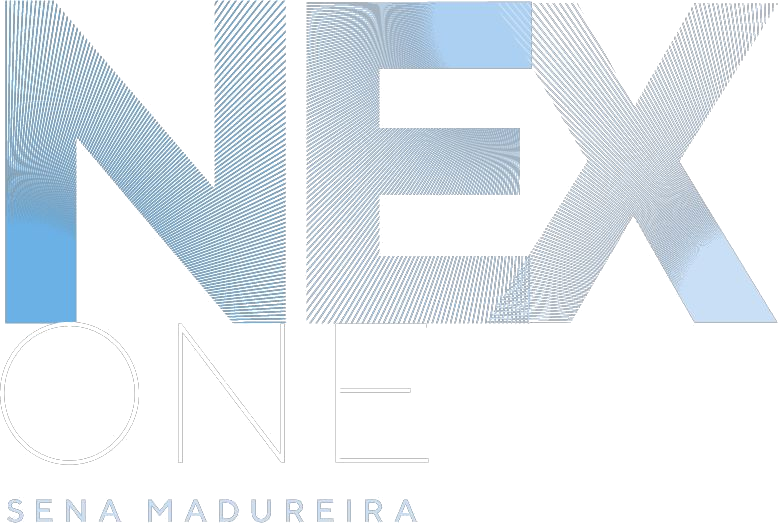
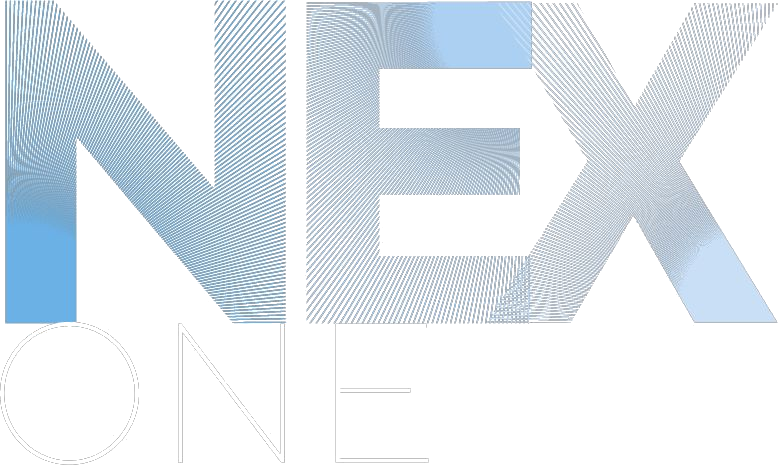
feat: add landing page moema

diff --git a/src/pages/lps/nosm/index.js b/src/pages/lps/nosm/index.js
@@ -19,9 +19,9 @@ import styles from "./index.module.css";
 function Page() {
   const router = useRouter();
   const msg =
-    ", especialista em crédito imobiliário do programa Casa Verde e Amarela.  Quais os bairros vc procura? Como posso te ajudar?";
+    "estou interessado neste empreendimento NEx One da Rua Nhambiquaras, poderia me contatar com mais informações? Obrigado.";
   const wapp =
-    "https://api.whatsapp.com/send?phone=+5511975307017&text=Olá, a consultora Andrea" +
+    "https://api.whatsapp.com/send?phone=+5511975307017&text=Olá consultora, " +
     msg;
 
   function showUp() {
@@ -66,8 +66,9 @@ function Page() {
         </div>
 
         <div className={styles.layer}>
+          <h2>Lançamento de studios rua Nhambiquaras</h2>
           <h1>
-            Lançamento Sena Madureira 13.000 m<sup>2</sup>
+            Moema 13 mil / m<sup>2</sup>
           </h1>
         </div>
 
@@ -153,7 +154,7 @@ function Page() {
         </div>
 
         <div className={styles.layer}>
-          <h1>Clique no mapa para ir ao para a localização do lançamento</h1>
+          <h2>Clique para a visualizar no Google Maps</h2>
         </div>
 
         <div className={styles.map}>
@@ -162,7 +163,7 @@ function Page() {
             target="_blank"
             rel="noreferrer"
           >
-            <Image alt="" src={image8} layout="responsive" objectFit="none" />
+            <Image alt="" src={image8} layout="responsive" objectFit="fill" />
           </a>
         </div>
 

diff --git a/src/pages/lps/nosm/index.module.css b/src/pages/lps/nosm/index.module.css
@@ -13,7 +13,7 @@
 }
 .header h1 {
   margin: 0 10px;
-  font-family: "Lucida Handwriting", Times, serif;
+  font-family: ‘Nunito’, sans-serif;
   font-style: normal;
   font-weight: normal;
   font-size: 1.875em;
@@ -59,16 +59,24 @@
   width: 100vw;
 }
 .layer h1 {
+  text-align: center;
+  color: #222222;
+  font-family: ‘Nunito’, sans-serif;
+  font-style: normal;
+  font-weight: normal;
+  font-size: 2.11em;
+}
+.layer h1 sup {
+  font-size: 16px;
+}
+.layer h2 {
   padding-top: 2vh;
   text-align: center;
-  font-family: "Lucida Handwriting", Times, serif;
+  color: #444444;
+  font-family: ‘Nunito’, sans-serif;
   font-style: normal;
   font-weight: normal;
   font-size: 1.875em;
-}
-
-.layer h1 sup {
-  font-size: 14px;
 }
 
 .layerdark {
@@ -170,10 +178,14 @@
   }
 
   .layer h1 {
-    font-size: 18px;
+    font-size: 22px;
   }
   .layer h1 sup {
+    padding-left: 3px;
     font-size: 12px;
+  }
+  .layer h2 {
+    font-size: 16px;
   }
 
   .title {

diff --git a/src/pages/_document.js b/src/pages/_document.js
@@ -4,7 +4,18 @@ class MyDocument extends Document {
   render() {
     return (
       <Html>
-        <Head />
+        <Head>
+          <link rel="preconnect" href="https://fonts.googleapis.com" />
+          <link
+            rel="preconnect"
+            href="https://fonts.gstatic.com"
+            crossOrigin="true"
+          />
+          <link
+            href="https://fonts.googleapis.com/css2?family=Nunito:ital,wght@0,400;0,600;0,700;0,900;1,400&display=swap"
+            rel="stylesheet"
+          />
+        </Head>
         <body className="loading">
           <Main />
           <NextScript />
